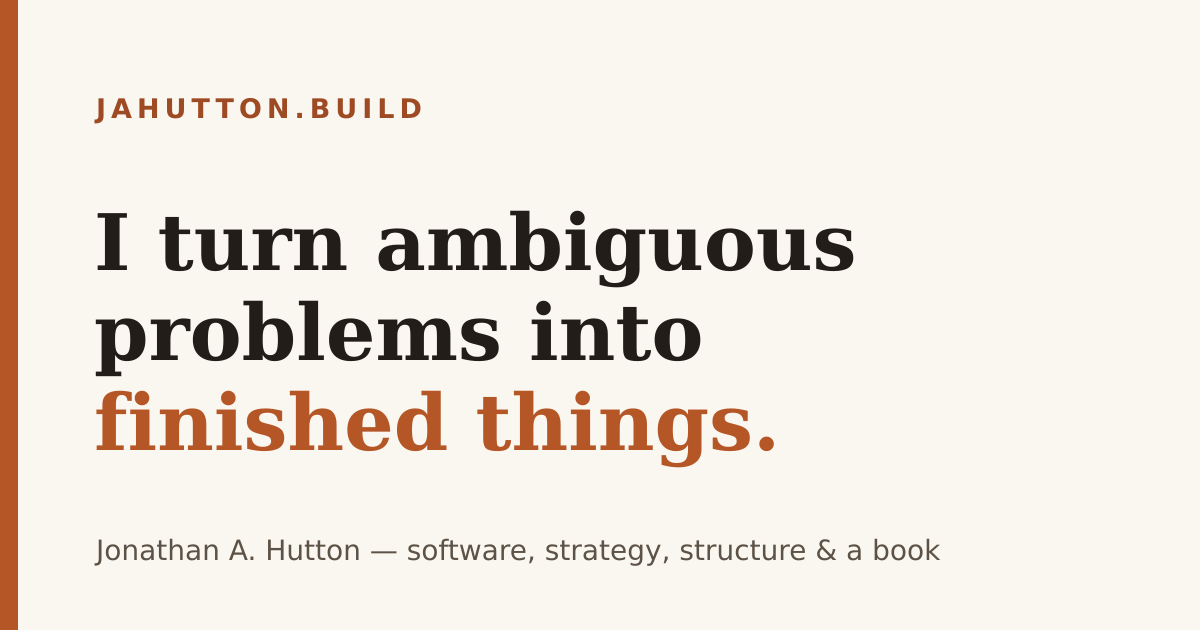
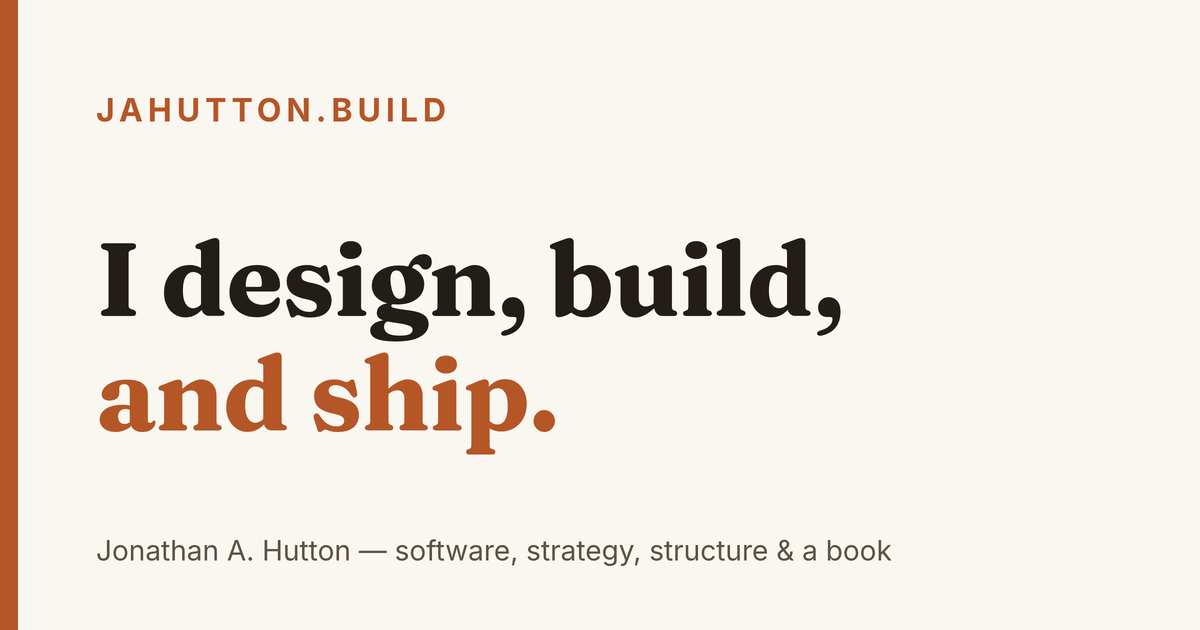
Regenerate the OG card from the current headline
The share card still read "I turn ambiguous problems into finished things."
Jon cut "ambiguity" from the hero on 2026-08-02 for being the one abstract noun
in a concrete sentence, but the word was baked into the picture — so it stayed
on the site, in the image that previews every shared link. It was the
most-seen sentence here and the last place that copy survived.

The card now carries the current hero line, "I design, build, and ship.", with
the ink/rust split on the closing phrase where the old one had it. Both alt
strings move with it, per the standing rule: alt describes the picture, so an
alt that outlives its image is a lie.

It also stops being a one-off PNG. .temp/og-card.html is the source and
`node .temp/make-og-card.mjs` rebuilds it. The geometry is measured off the
original rather than eyeballed — 18px rust rule, 96px text margin, eyebrow caps
at y=98, subline ink ending at y=565 — so a regeneration stays in the design
language instead of drifting a few pixels every time. Same @fontsource faces
the site ships, rendered at 2x through a Chrome already on the machine and
downsampled by the sharp inside astro. No new dependency; the count stays four.

The subline is unchanged and still Jon's to reconsider: it says "software,
strategy, structure & a book" while the site's own lead now names the audience.

Changed region(s): [[0.0617, 0.3317, 0.7092, 0.754], [0.0617, 0.8444, 0.8017, 0.9048], [0.0617, 0.1508, 0.37, 0.2111]]

diff --git a/src/data/site.js b/src/data/site.js
@@ -16,12 +16,11 @@ export const site = {
   // sit in any consulting firm's boilerplate. The replacement also drops the abstraction
   // entirely rather than swapping in another one, and it covers the zero-to-one work as well as
   // the rescues, which "turning X into Y" didn't.
-  // ⚠ TODO(jon): public/og-default.png still has "I turn AMBIGUOUS problems into finished
-  //   things." rendered into the image, and the alt text in BaseLayout.astro + README.md
-  //   correctly describes that picture — so the word is still on the site, in the card that
-  //   shows every time anyone shares a link. Fixing it means regenerating the PNG (Fraunces
-  //   700, the ink/rust split, 1200×630), and the alt text in BOTH places moves with it.
-  //   Deliberately not done here: the alt must keep describing the image that exists.
+  // Resolved 2026-08-04: og-default.png was regenerated from the current headline, and the
+  // alt text in BaseLayout.astro + README.md moved with it. The card is rebuilt from
+  // .temp/og-card.html (geometry measured off the original, same @fontsource faces the site
+  // ships) via `node .temp/make-og-card.mjs`. If this headline changes again, the card and
+  // BOTH alt strings change with it — the alt describes the picture, so a stale alt is a lie.
   positioning:
     'For solo operators, small businesses, and nonprofits — software, strategy, and structure, so the thing you’ve been meaning to build actually exists.',
   bookUrl: 'https://unflappable.press',

diff --git a/README.md b/README.md
@@ -1,6 +1,6 @@
 <div align="center">
 
-<img src="public/og-default.png" alt="jahutton.build — I turn ambiguous problems into finished things." width="640">
+<img src="public/og-default.png" alt="jahutton.build — I design, build, and ship." width="640">
 
 # jahutton.build
 
